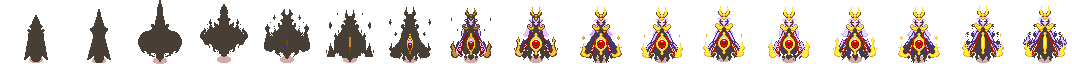
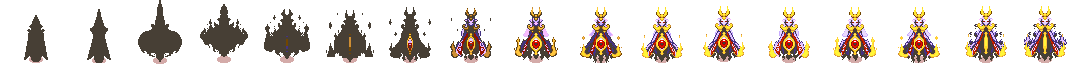
naprawione ale nie skończone

Changed region(s): [[0.8927, 0.0938, 0.9543, 0.9688]]

diff --git a/Final_boss.h b/Final_boss.h
@@ -110,42 +110,101 @@ public:
     }
 };
 
+
+class HealthBar {
+private:
+    sf::RectangleShape background; // Szare tło
+    sf::RectangleShape foreground; // Czerwony pasek
+    float maxHp;
+    
+
+public:
+    HealthBar(float width, float height, float max) : maxHp(max) {
+        // Ustawienia tła
+        background.setSize(sf::Vector2f(width, height));
+        background.setFillColor(sf::Color(50, 50, 50)); // Ciemnoszary
+
+        // Ustawienia paska
+        foreground.setSize(sf::Vector2f(width, height));
+        foreground.setFillColor(sf::Color::Red);
+    }
+
+    void update(float currentHp, sf::Vector2f position) {
+        // Obliczamy procent zdrowia (od 0.0 do 1.0)
+        float percent = currentHp / maxHp;
+        if (percent < 0) percent = 0;
+
+        // Skalujemy szerokość paska
+        foreground.setSize(sf::Vector2f(background.getSize().x * percent, background.getSize().y));
+
+        // Ustawiamy pozycję (np. nad głową bossa)
+        background.setPosition(position.x, position.y - 20); // 20px nad bossem
+        foreground.setPosition(position.x, position.y - 20);
+    }
+
+    void draw(sf::RenderWindow& window) {
+        window.draw(background);
+        window.draw(foreground);
+    }
+};
+
 // ============================================================================
 // 2. KLASA GŁÓWNEGO BOSSA
 // ============================================================================
 class Final_boss : public Enemy
 {
 private:
+    // Stan bosa
     Boss_state aktualnyEtap;
-    sf::Clock stateClock, attackClock, animClock;
+    bool isEyeOpen; // Czy oko jest otwarte (podatność)
+    bool oczy_zrespowane;
+    
+    // UI i pomocnicze
+    HealthBar hpBar;
+    sf::Clock stateClock, attackClock, animClock, phaseTimer;
+    float currentPhaseDuration;
+    
+    // Zasoby
     const sf::Texture& tex1;
     const sf::Texture& tex2;
     const sf::Texture& texOczu;
-    bool oko_otwarte, oczy_zrespowane;
-    float czas_na_oko;
+    
+    // Parametry
     int maxHp;
     int klatka_szerokosc = 64;
     int klatka_wysokosc = 64;
+    int aktualnyYOffset = 0;
 
 public:
     Final_boss(const sf::Texture& t1, const sf::Texture& t2, const sf::Texture& tOczy, float x, float y) 
-        : Enemy(x, y, 35.0f), tex1(t1), tex2(t2), texOczu(tOczy)
+        : Enemy(x, y, 35.0f), tex1(t1), tex2(t2), texOczu(tOczy), hpBar(100.0f, 15.0f, 40.0f)
     {
-        this->maxHp = 40; // Twoje oryginalne HP
+        this->maxHp = 40;
         this->hp = this->maxHp;
         this->speed = 45.0f;
         this->aktualnyEtap = Boss_state::Transformacja;
-        this->oko_otwarte = false;
+        
+        // Logika oka
+        this->isEyeOpen = true; 
         this->oczy_zrespowane = false;
-        this->czas_na_oko = 2.5f;
+        this->currentPhaseDuration = 2.0f; // Startowy czas fazy
 
         this->sprite.setTexture(tex1);
         this->shape.setSize(sf::Vector2f(48.0f, 48.0f));
         this->shape.setPosition(x, y);
         this->sprite.setPosition(x, y);
-        this->sprite.setTextureRect(sf::IntRect(0, 0, klatka_szerokosc, klatka_wysokosc));
         this->sprite.setScale(1.5f, 1.5f);
         this->startPosition = sf::Vector2f(x, y);
+        
+        this->invincibilityDuration = 0.5f; // Czas nietykalności po otrzymaniu dmg
+    }
+
+    // Funkcja sprawdzająca czy można bić bossa
+    bool isVulnerable() const {
+        if (aktualnyEtap == Boss_state::Faza_Oka) {
+            return isEyeOpen; // Tylko gdy oko otwarte
+        }
+        return true; // W innych fazach jest podatny
     }
 
     void updateEnemyAI(std::vector<Game*>& worldObjects, float deltaTime) override
@@ -153,65 +212,69 @@ public:
         recoilVelocity = sf::Vector2f(0.0f, 0.0f);
         float czas_w_stanie = stateClock.getElapsedTime().asSeconds();
         
-        // Animacja
-        int klatka = static_cast<int>(animClock.getElapsedTime().asSeconds() / 0.2f) % 34;
-        if (aktualnyEtap == Boss_state::Faza_zadymka)
-             klatka = static_cast<int>(animClock.getElapsedTime().asSeconds() / 0.08f) % 34;
-
-        // 1. Wybór tekstury
-        const sf::Texture* aktywnaTex = (klatka < 17) ? &tex1 : &tex2;
-        this->sprite.setTexture(*aktywnaTex);
-
-        // 2. Ustalenie wysokości (Y)
-        int yOffset = 0;
-        switch (aktualnyEtap)
-        {
-            case Boss_state::Transformacja: yOffset = 0; break;
-            case Boss_state::Faza_Oka:      yOffset = oko_otwarte ? 128 : 64; break;
-            case Boss_state::Faza_PolHp:    yOffset = 128; break;
-            case Boss_state::Faza_zadymka:  yOffset = 128; break;
-        }
-
-        // 3. BEZPIECZNIK: Sprawdzenie, czy tekstura w ogóle ma tyle pikseli w pionie
-        if (yOffset + klatka_wysokosc > (int)aktywnaTex->getSize().y)
-        {
-            yOffset = 0; // Jeśli plik jest za krótki, zresetuj do zera, żeby nie znikał
-        }
-
-        // 4. BEZPIECZNIK: Sprawdzenie, czy X nie wychodzi poza szerokość pliku
-        // Jeśli tekstura jest węższa niż 17 klatek, używamy modulo
-        int iloscKlatekWPoziomie = aktywnaTex->getSize().x / klatka_szerokosc;
-        if (iloscKlatekWPoziomie < 1) iloscKlatekWPoziomie = 1;
-        
-        int xPos = (klatka % iloscKlatekWPoziomie) * klatka_szerokosc;
-        this->sprite.setTextureRect(sf::IntRect(xPos, yOffset, klatka_szerokosc, klatka_wysokosc));
+        int klatka = 0;
+        const sf::Texture* aktywnaTex = &tex1;
 
         // Logika faz
         switch (aktualnyEtap)
         {
             case Boss_state::Transformacja:
+                klatka = static_cast<int>(animClock.getElapsedTime().asSeconds() / 0.2f) % 17;
+                aktywnaTex = &tex1;
+                aktualnyYOffset = 0;
+                
                 if (czas_w_stanie > 4.0f) {
                     this->shape.setSize(sf::Vector2f(96.0f, 96.0f));
                     this->sprite.setScale(2.5f, 2.5f);
                     aktualnyEtap = Boss_state::Faza_Oka;
                     stateClock.restart();
+                    animClock.restart();
+                    phaseTimer.restart();
                 }
                 break;
                 
             case Boss_state::Faza_Oka:
-                if (czas_w_stanie >= czas_na_oko) { oko_otwarte = !oko_otwarte; stateClock.restart(); }
+            {
+                // --- LOSOWE PRZEŁĄCZANIE (OKO / PELERYNKA) ---
+                if (phaseTimer.getElapsedTime().asSeconds() >= currentPhaseDuration) {
+                    isEyeOpen = !isEyeOpen;
+                    phaseTimer.restart();
+                    
+                    if (isEyeOpen) {
+                        currentPhaseDuration = 1.5f + static_cast<float>(rand() % 150) / 100.0f; // 1.5-3s otwarte
+                    } else {
+                        currentPhaseDuration = 3.0f + static_cast<float>(rand() % 300) / 100.0f; // 3-6s zamknięte
+                    }
+                }
+
+                aktywnaTex = &tex2;
+
+                if (isEyeOpen) {
+                    // OTWARTY - klatki 0-14
+                    klatka = static_cast<int>(animClock.getElapsedTime().asSeconds() / 0.15f) % 15;
+                    aktualnyYOffset = 128; 
+                } else {
+                    // ZAMKNIĘTY/PELERYNKA - klatki 15-16
+                    klatka = 15 + (static_cast<int>(animClock.getElapsedTime().asSeconds() / 0.4f) % 2);
+                    aktualnyYOffset = 64; 
+                }
+
                 this->shape.move(getDirectionToPlayer() * speed * deltaTime);
                 
-                // Powrót do Twojego oryginalnego HP
                 if (this->hp <= maxHp / 2) { 
                     aktualnyEtap = Boss_state::Faza_PolHp; 
-                    oko_otwarte = true; 
+                    isEyeOpen = true; // W kolejnej fazie znowu podatny
                     stateClock.restart(); 
                     attackClock.restart(); 
                 }
                 break;
+            }
 
             case Boss_state::Faza_PolHp:
+                klatka = static_cast<int>(animClock.getElapsedTime().asSeconds() / 0.2f) % 17;
+                aktywnaTex = &tex2;
+                aktualnyYOffset = 128;
+
                 if (!oczy_zrespowane) {
                     worldObjects.push_back(new Flying_eyes(this->texOczu, 150.0f + (rand() % 400), 100.0f + (rand() % 300)));
                     worldObjects.push_back(new Flying_eyes(this->texOczu, 150.0f + (rand() % 400), 100.0f + (rand() % 300)));
@@ -219,11 +282,17 @@ public:
                 }
                 this->shape.move(getDirectionToPlayer() * (speed * 1.25f) * deltaTime);
                 
-                // Powrót do Twojego oryginalnego HP
-                if (this->hp <= maxHp / 4) aktualnyEtap = Boss_state::Faza_zadymka;
+                if (this->hp <= maxHp / 4) {
+                    aktualnyEtap = Boss_state::Faza_zadymka;
+                    animClock.restart();
+                }
                 break;
 
             case Boss_state::Faza_zadymka:
+                klatka = static_cast<int>(animClock.getElapsedTime().asSeconds() / 0.08f) % 17;
+                aktywnaTex = &tex2;
+                aktualnyYOffset = 128;
+                
                 this->shape.move(getDirectionToPlayer() * (speed * 1.7f) * deltaTime);
                 this->sprite.setColor(sf::Color(255, 150, 150));
                 if (attackClock.getElapsedTime().asSeconds() >= 1.3f) {
@@ -232,14 +301,27 @@ public:
                 }
                 break;
         }
+
+        // Aktualizacja UI i Sprite
+        hpBar.update(static_cast<float>(this->hp), this->shape.getPosition());
+        this->sprite.setTexture(*aktywnaTex);
+        
+        // Zabezpieczenie przed wyjściem poza teksturę
+        if (aktualnyYOffset + klatka_wysokosc > (int)aktywnaTex->getSize().y) aktualnyYOffset = 0;
+    
+        this->sprite.setTextureRect(sf::IntRect(klatka * klatka_szerokosc, aktualnyYOffset, klatka_szerokosc, klatka_wysokosc));
         this->sprite.setPosition(this->shape.getPosition());
     }
 
-    void draw(sf::RenderWindow& window) override { window.draw(this->sprite); }
+    void draw(sf::RenderWindow& window) override { 
+        window.draw(this->sprite); 
+        hpBar.draw(window); 
+    }
     
     void takeDamage(int amount) override {
-        if(aktualnyEtap == Boss_state::Transformacja) return;
-        if(aktualnyEtap == Boss_state::Faza_Oka && !oko_otwarte) return;
+        // Blokada bicia, jeśli oko zamknięte (tylko w fazie oka)
+        if (!isVulnerable()) return;
+
         if(!isInvincible()) {
             this->hp -= amount;
             if(this->hp < 0) this->hp = 0;

diff --git a/main.cpp b/main.cpp
@@ -797,7 +797,7 @@ for (size_t i = 0; i < worldObjects.size(); ++i)
                 if(worldX + 1 < 10 && worldMap[worldY][worldX + 1] != nullptr)
                 {
                     worldX++;
-                    Rooms(worldX, worldY, worldObjects, 340.0f, 240.0f, tex_drzewa, tex_floor1, tex_floor2, tex_cien, tex_slime,tex_moblin_up,tex_moblin_down,tex_moblin_left,tex_moblin_righ,tex_skieleton_down,tex_skieleton_up,tex_skieleton_sides,tex_strzala,tex_piasek,tex_wysoka_trawa,tex_stone,tex_kwiatek,tex_boss_przemiana1,tex_boss_przemiana2,tex_oczy, defeatedEnemies);
+                    Rooms(worldX, worldY, worldObjects, 20.0f, playerPos.y, tex_drzewa, tex_floor1, tex_floor2, tex_cien, tex_slime,tex_moblin_up,tex_moblin_down,tex_moblin_left,tex_moblin_righ,tex_skieleton_down,tex_skieleton_up,tex_skieleton_sides,tex_strzala,tex_piasek,tex_wysoka_trawa,tex_stone,tex_kwiatek,tex_boss_przemiana1,tex_boss_przemiana2,tex_oczy, defeatedEnemies);
                 }
                 else
                 {
@@ -810,7 +810,7 @@ for (size_t i = 0; i < worldObjects.size(); ++i)
                 if(worldX - 1 >= 0 && worldMap[worldY][worldX - 1] != nullptr)
                 {
                     worldX--;
-                    Rooms(worldX, worldY, worldObjects, 340.0f, 240.0f, tex_drzewa, tex_floor1, tex_floor2, tex_cien, tex_slime,tex_moblin_up,tex_moblin_down,tex_moblin_left,tex_moblin_righ,tex_skieleton_down,tex_skieleton_up,tex_skieleton_sides,tex_strzala,tex_piasek,tex_wysoka_trawa,tex_stone,tex_kwiatek,tex_boss_przemiana1,tex_boss_przemiana2,tex_oczy, defeatedEnemies);
+                    Rooms(worldX, worldY, worldObjects, 630.0f, playerPos.y, tex_drzewa, tex_floor1, tex_floor2, tex_cien, tex_slime,tex_moblin_up,tex_moblin_down,tex_moblin_left,tex_moblin_righ,tex_skieleton_down,tex_skieleton_up,tex_skieleton_sides,tex_strzala,tex_piasek,tex_wysoka_trawa,tex_stone,tex_kwiatek,tex_boss_przemiana1,tex_boss_przemiana2,tex_oczy, defeatedEnemies);
                 }
                 else
                 {
@@ -822,7 +822,7 @@ for (size_t i = 0; i < worldObjects.size(); ++i)
                 if(worldY + 1 < 10 && worldMap[worldY + 1][worldX] != nullptr)
                 {
                     worldY++;
-                    Rooms(worldX, worldY, worldObjects, 340.0f, 240.0f, tex_drzewa, tex_floor1, tex_floor2, tex_cien, tex_slime,tex_moblin_up,tex_moblin_down,tex_moblin_left,tex_moblin_righ,tex_skieleton_down,tex_skieleton_up,tex_skieleton_sides,tex_strzala,tex_piasek,tex_wysoka_trawa,tex_stone,tex_kwiatek,tex_boss_przemiana1,tex_boss_przemiana2,tex_oczy, defeatedEnemies);
+                    Rooms(worldX, worldY, worldObjects, playerPos.x, 20.0f, tex_drzewa, tex_floor1, tex_floor2, tex_cien, tex_slime,tex_moblin_up,tex_moblin_down,tex_moblin_left,tex_moblin_righ,tex_skieleton_down,tex_skieleton_up,tex_skieleton_sides,tex_strzala,tex_piasek,tex_wysoka_trawa,tex_stone,tex_kwiatek,tex_boss_przemiana1,tex_boss_przemiana2,tex_oczy, defeatedEnemies);
                 }
                 else
                 {
@@ -834,7 +834,7 @@ for (size_t i = 0; i < worldObjects.size(); ++i)
                 if(worldY - 1 >= 0 && worldMap[worldY - 1][worldX] != nullptr)
                 {
                     worldY--;
-                    Rooms(worldX, worldY, worldObjects, 340.0f, 240.0f, tex_drzewa, tex_floor1, tex_floor2, tex_cien, tex_slime,tex_moblin_up,tex_moblin_down,tex_moblin_left,tex_moblin_righ,tex_skieleton_down,tex_skieleton_up,tex_skieleton_sides,tex_strzala,tex_piasek,tex_wysoka_trawa,tex_stone,tex_kwiatek,tex_boss_przemiana1,tex_boss_przemiana2,tex_oczy, defeatedEnemies);
+                    Rooms(worldX, worldY, worldObjects, playerPos.x, 500.0f, tex_drzewa, tex_floor1, tex_floor2, tex_cien, tex_slime,tex_moblin_up,tex_moblin_down,tex_moblin_left,tex_moblin_righ,tex_skieleton_down,tex_skieleton_up,tex_skieleton_sides,tex_strzala,tex_piasek,tex_wysoka_trawa,tex_stone,tex_kwiatek,tex_boss_przemiana1,tex_boss_przemiana2,tex_oczy, defeatedEnemies);
                 }
                 else 
                 {

diff --git a/Enemies.h b/Enemies.h
@@ -122,7 +122,7 @@ protected:
     float friction = 8.0f;
     int hp;
     float invincibilityTimer = 0.0f;       // Aktualny czas odporności
-    const float invincibilityDuration = 0.4f; // Jak długo wróg jest odporny po ciosie (np. 0.4 sekundy)
+    float invincibilityDuration = 0.4f; // Jak długo wróg jest odporny po ciosie (np. 0.4 sekundy)
     sf::Vector2f startPosition;
     // Zwraca wektor ruchu W STRONĘ gracza
     sf::Vector2f getDirectionToPlayer()